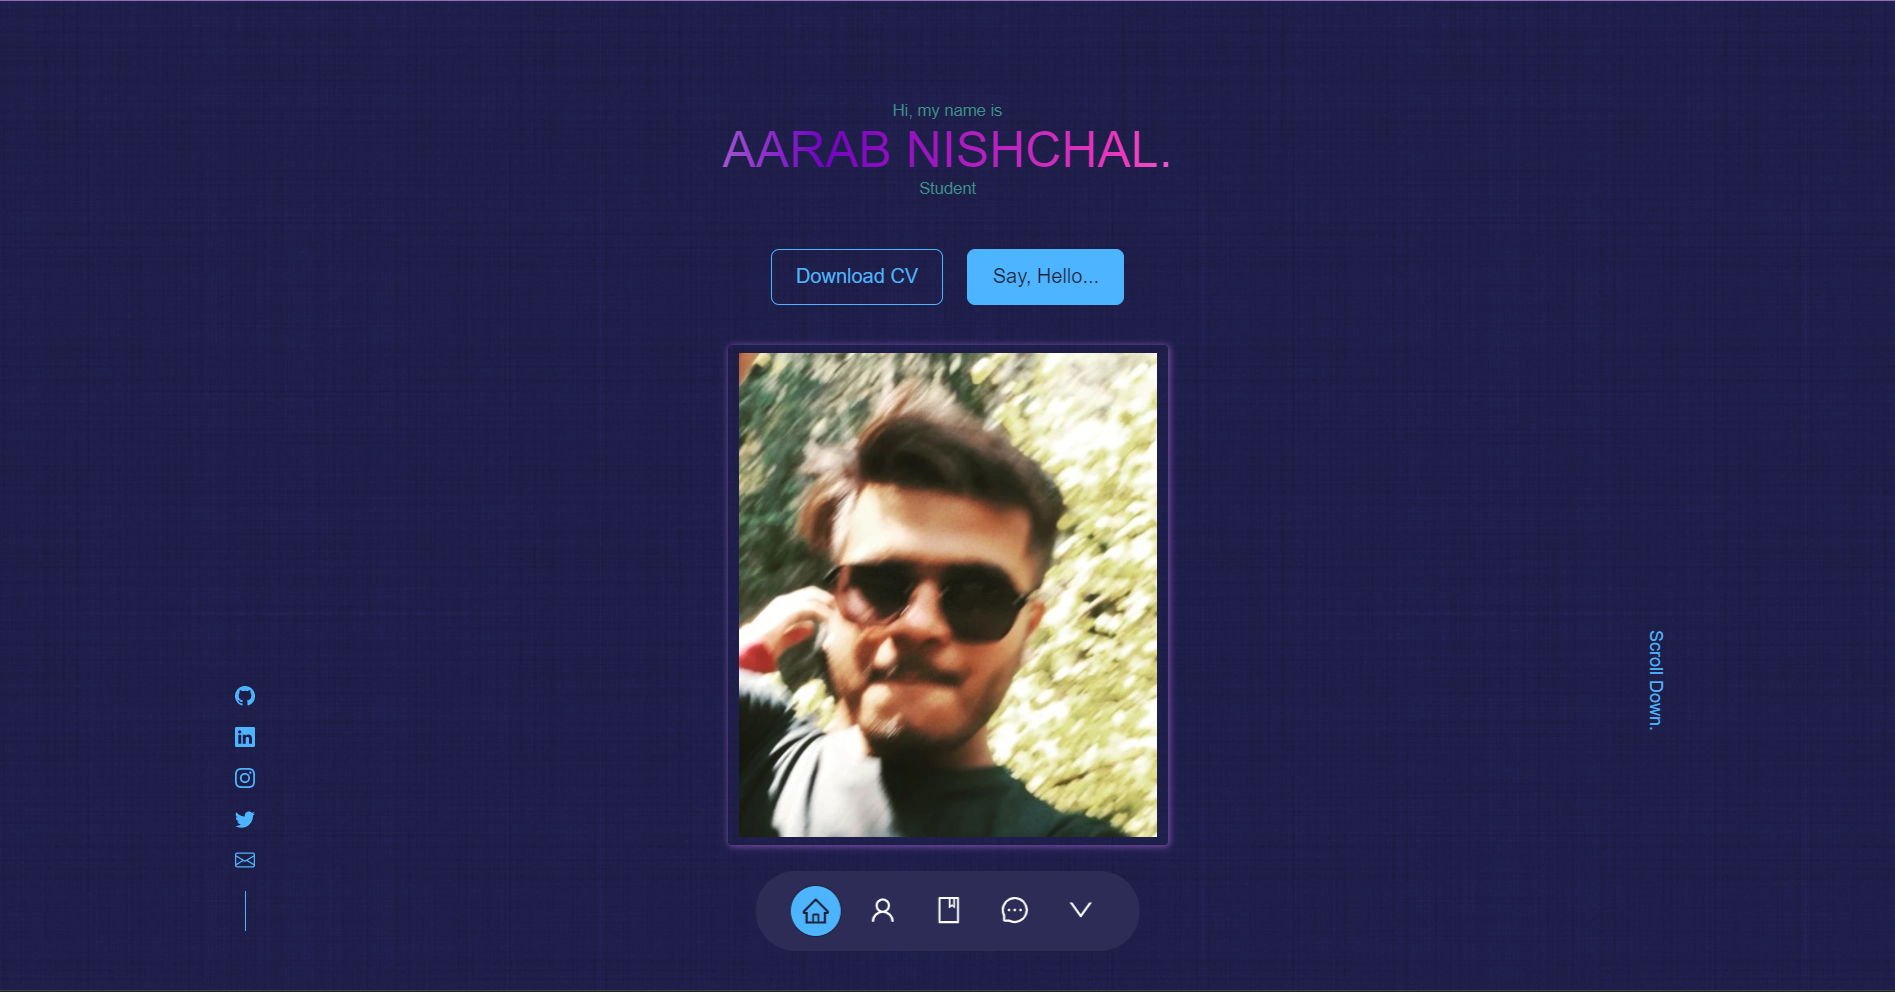
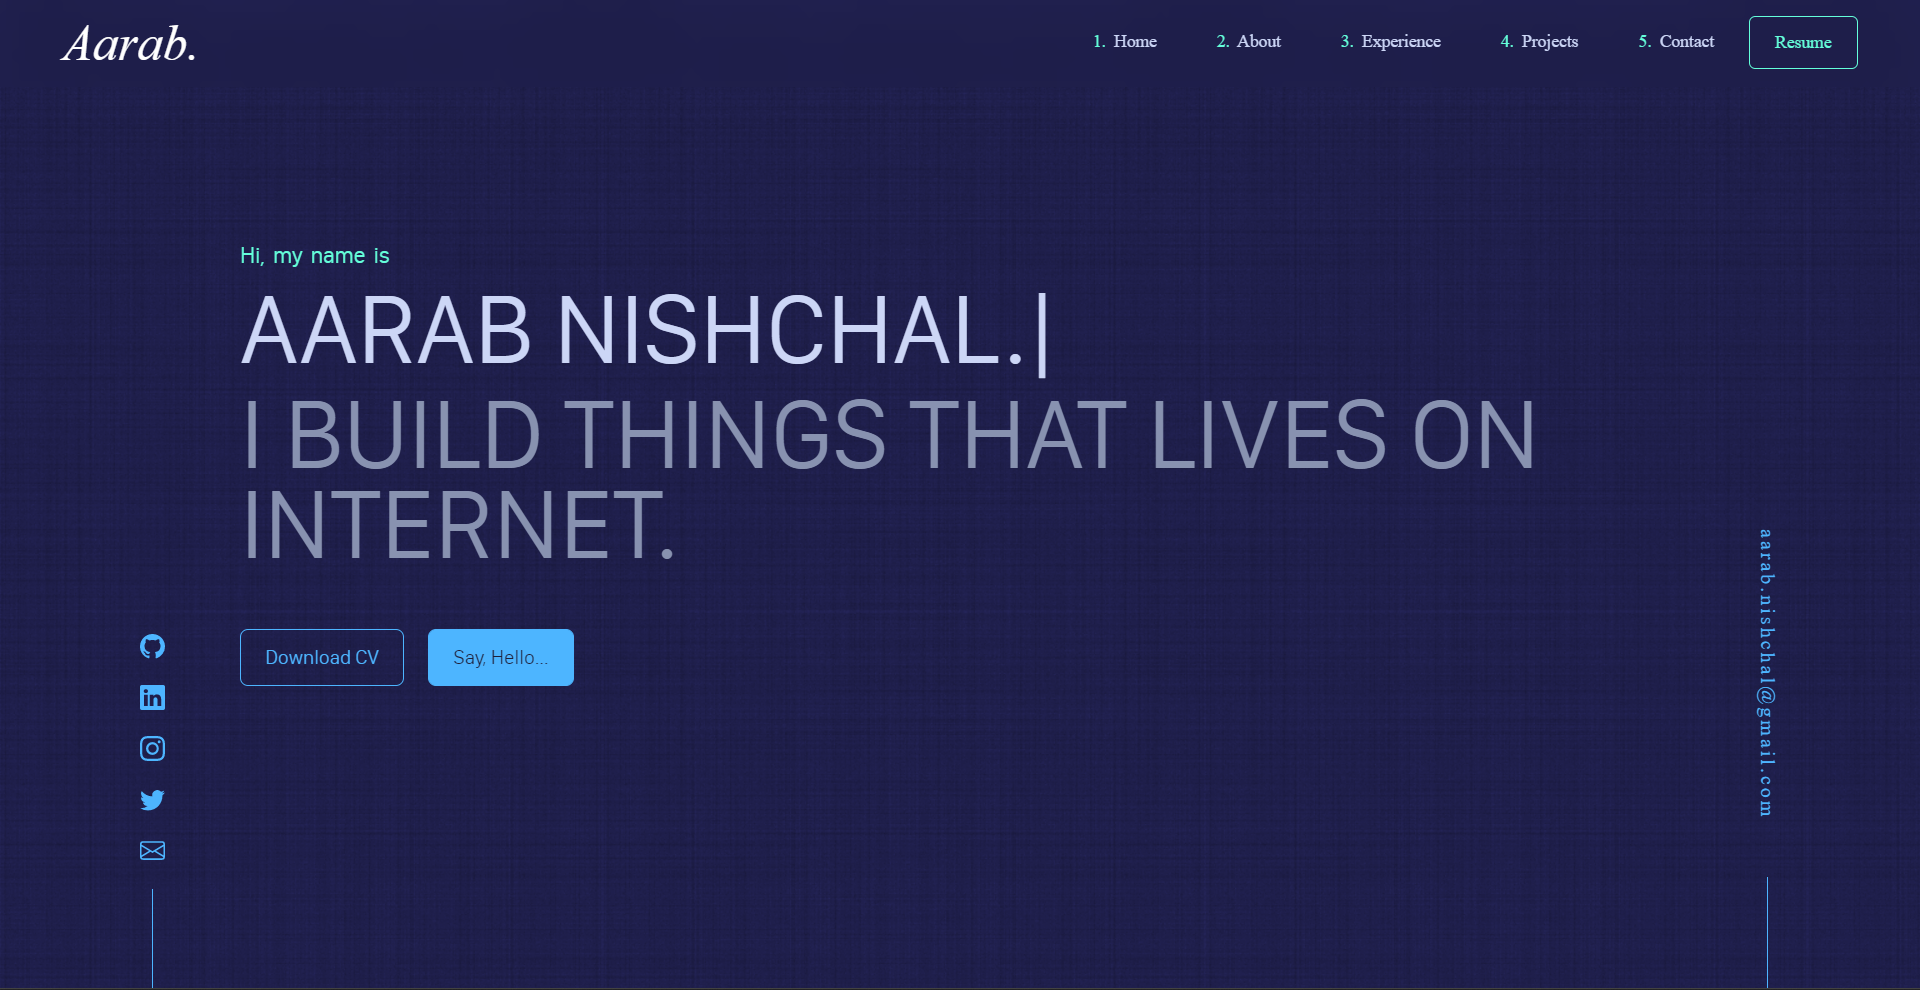
✨enhanced landing section

diff --git a/src/components/Section/Header/Header.css b/src/components/Section/Header/Header.css
@@ -5,44 +5,58 @@ header {
 }
 
 .header_container {
-    text-align: center;
     height: 100%;
     position: relative;
+    display: flex;
+    flex-direction: column;
 }
-.header_container h5 {
-    color: #3d938b;
+
+.header_text {
+    margin-top: 10%;
+    padding: 0;
+    margin-bottom: 40%;
 }
-.header_container h1 {
-    color: #fff;
+
+.header_text h3 {
+    font-size: 1rem;
+    font-weight: 400;
+    line-height: 20px;
+    font-size: 18px;
+    color: #64ffda;
+    text-align: start;
+    word-spacing: 3px;
+    letter-spacing: normal;
+    margin: 0;
+    padding: 0;
+}
+
+.header_text h1 {
+    font-size: 80px;
+    color: #ccd6f6;
     text-transform: uppercase;
-    background: linear-gradient(90deg, #fdeff9 0%, #7303c0 33%, #ec38bc 66%, #fdeff9 100%);
-    background-size: auto auto;
-    background-clip: border-box;
-    background-size: 200% auto;
-    color: #fff;
-    background-clip: text;
-    /* text-fill-color: transparent; */
-    -webkit-background-clip: text;
-    -webkit-text-fill-color: transparent;
-    animation: textclip 3.5s linear infinite;
-    display: inline-block;
+    text-align: start;
+    margin: 0;
+    padding: 0;
 }
 
+.header_text span {
+    font-size: 80px;
+    color: #8892b0;
+    line-height: 72px;
+    text-transform: uppercase;
+    text-align: start;
+    margin: 0;
+    padding: 0;
+}
 
-@keyframes textclip {
-to {
-    background-position: 200% center;
-}
-}
-/* ==================== CTA ==================== */
 .cta {
-    margin-top: 2.5rem;
+    margin-top: 3rem;
     display: flex;
     gap: 1.2rem;
-    justify-content: center;
+    /* justify-content: center; */
 }
 
-/* ==================== Socials ==================== */
+/* ==================== Floating Icons and mail ==================== */
 .header_socials {
     display: flex;
     flex-direction: column;
@@ -67,53 +81,6 @@ to {
     transform: translateY(-3px);
 }
 
-/* ==================== My Image (PFP) ==================== */
-
-.me {
-    width: 22rem;
-    height: 25rem;
-    position: absolute;
-    left: calc(50% - 11rem);
-    margin-top: 2rem;
-    /* border-radius: 1rem 1rem 1rem 1rem; */
-    overflow: hidden;
-    padding: 1.5rem 1.5rem 1.5rem 1.5rem;
-    border-radius: 3px;
-    transition: all .4s;
-}
-.image-card:hover{
-    box-shadow: 1px 1px 6px 1px #764BA2;
-    border-radius: 1px solid #7303c0;
-}
-.image-card:before{
-    content: '';
-    position: absolute;
-    top: 0;
-    left: 180%;
-    height: 100%;
-    width: 75%;
-    background: rgba(255,255,255,.1);
-    z-index: 1;
-    transform: skew(45deg);
-    opacity: .7;
-    pointer-events: none;
-    transition: .5s;
-}
-.image-card:hover:before{
-    left: -180%;
-}
-.image-card img{
-    height: 100%;
-    width: 100%;
-    filter: grayscale(100%);
-    transition: 2s;
-}
-.image-card:hover img{
-    filter: grayscale(0%);
-    transform: scale(1.1);
-}
-
-/* ==================== Scroll Down ==================== */
 .mail-container {
     display: flex;
     flex-direction: column;
@@ -152,7 +119,19 @@ to {
 /* ==================== MEDIA QUERIES (Medium DEVICES) ==================== */
 @media screen and (max-width: 1024px) {
     header {
-        height: 68vh;
+        height: 80vh;
+    }
+
+    .header_text {
+        margin-top: 20%;
+    }
+
+    .header_text h1 {
+        font-size: 60px;
+    }
+
+    .header_text span {
+        font-size: 60px;
     }
     
     .header_socials,

diff --git a/src/components/Section/Header/Header.jsx b/src/components/Section/Header/Header.jsx
@@ -1,48 +1,31 @@
-import React, { useEffect, useState } from 'react';
+import React from 'react';
 import './Header.css';
-import CTA from './CTA';
+
 import HeaderSocials from './HeaderSocials';
 import TypingEffect from './TypingEffect';
-
-const placeholderText = ["Developer", "Programer", "Student",];
-
-const Text = () => {
-  const [index, setIndex] = useState(0);
-  useEffect(() => {
-    const timer = () => {
-      setIndex(prevIndex => {
-        if(prevIndex === placeholderText.length - 1){
-          return 0;
-        } 
-        return prevIndex + 1;
-      })
-    };
-    setInterval(timer, 3000);
-    return () => { clearInterval(timer); }
-  }, []);
-  return placeholderText[index]
-}
+import CTA from './CTA';
 
 const Header = () => {
 
   return (
     <header>
       <div className='container header_container'>
-        <h5>Hi, my name is</h5>
-        <TypingEffect />
-        {/* <h1>Aarab Nishchal</h1> */}
-        <h5 className='text-light'><Text /></h5>
-        <CTA />
-        <HeaderSocials />
+                <div className='header_text'>
+                    <h3>Hi, my name is</h3>
+                    {/* <h1>Aarab Nishchal</h1> */}
+                    <TypingEffect />
+                    <span>I build things that lives on Internet.</span>
 
-        <div className="me image-card">
+                    <p></p>
+                    <CTA />
+                </div>
+
+                <HeaderSocials />
+            </div>
+
+        {/* <div className="me image-card">
           <img src={require('../../../assets/Pics/me2.jpg')} alt="me" />
-        </div>
-
-        <div className='mail-container'>
-          <a href='mailto:nishu@duck.com' className="mail">aarab.nishchal@gmail.com</a>
-        </div>
-      </div>
+        </div> */}
     </header>
   )
 }

diff --git a/src/components/Section/Header/HeaderSocials.jsx b/src/components/Section/Header/HeaderSocials.jsx
@@ -8,12 +8,18 @@ import { BsTwitter } from 'react-icons/bs'
 
 const HeaderSocials = () => {
     return (
-        <div className='header_socials'>
-            <a href="https://github.com/losier" target="_blank" rel="noopener noreferrer"><BsGithub /></a>
-            <a href="https://www.linkedin.com/in/aarab-nishchal/" target="_blank" rel="noopener noreferrer"><BsLinkedin /></a>
-            <a href="https://www.instagram.com/zzcwc" target="_blank" rel="noopener noreferrer"><BsInstagram /></a>
-            <a href="https://twitter.com/uwu_losier" target="_blank" rel="noopener noreferrer"><BsTwitter /></a>
-            <a href="mailto:aarab.nishchal@gmail.com"><BsEnvelope /></a>
+        <div>
+            <div className='header_socials'>
+                <a href="https://github.com/losier" target="_blank" rel="noopener noreferrer"><BsGithub /></a>
+                <a href="https://www.linkedin.com/in/aarab-nishchal/" target="_blank" rel="noopener noreferrer"><BsLinkedin /></a>
+                <a href="https://www.instagram.com/zzcwc" target="_blank" rel="noopener noreferrer"><BsInstagram /></a>
+                <a href="https://twitter.com/uwu_losier" target="_blank" rel="noopener noreferrer"><BsTwitter /></a>
+                <a href="mailto:aarab.nishchal@gmail.com"><BsEnvelope /></a>
+            </div>
+
+            <div className='mail-container'>
+                <a href='mailto:nishu@duck.com' className="mail">aarab.nishchal@gmail.com</a>
+            </div>
         </div>
     )
 }

diff --git a/src/App.jsx b/src/App.jsx
@@ -6,9 +6,6 @@ import Home from "./components/Home/Home";
 
 import PageNotFound from "./components/Pages/404Page/PageNotFound";
 import ComingSoon from "./components/Pages/ComingSoon/ComingSoon";
-import About from "./components/Section/About/About";
-import Contact from "./components/Section/Contact/Contact";
-import Exp from "./components/Section/Experience/Exp";
 
 const App = () => {
   return (
@@ -17,15 +14,6 @@ const App = () => {
         <Switch>
           <Route exact path="/">
             <Home />
-          </Route>
-          <Route exact path="/about">
-            <About />
-          </Route>
-          <Route exact path="/experience">
-            <Exp />
-          </Route>
-          <Route exact path="/contact">
-            <Contact />
           </Route>
           <Route path="/projects">
             <ComingSoon />
